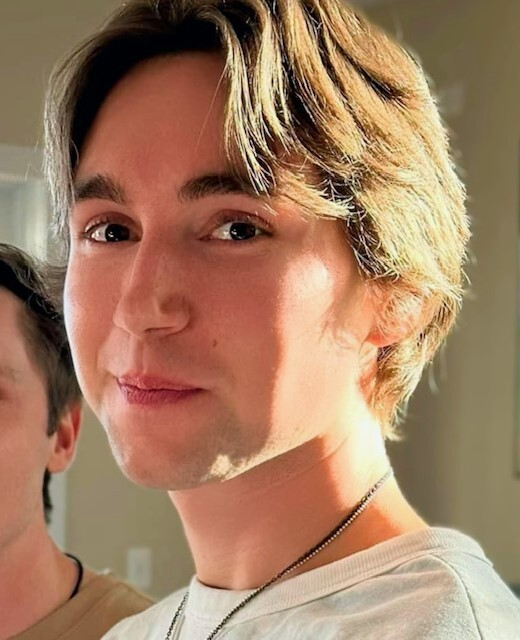
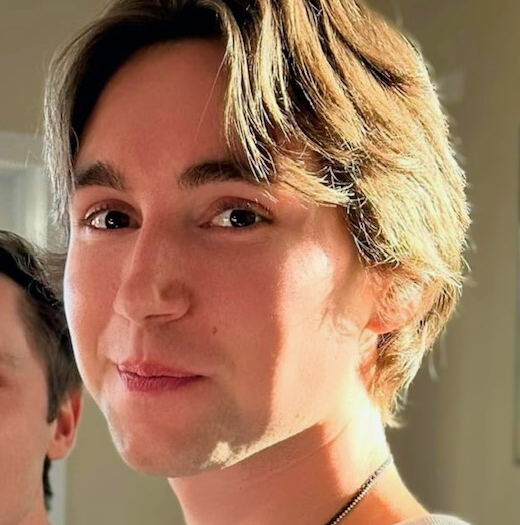
updated contact photos and home page styling

diff --git a/stylesheets/styles.scss b/stylesheets/styles.scss
@@ -45,7 +45,7 @@
 
 //main features styling
 .main-features {
-  background-color: aquamarine;
+  background-color: #e9cc7e;
   display: flex;
   justify-content: space-evenly;
   text-align: center;
@@ -86,7 +86,7 @@
   top: 0;
   left: 0;
   border-radius: 5px;
-  height: 100px;
+  height: 75px;
   z-index: 2;
 
   .NavBar {
@@ -94,55 +94,88 @@
     align-items: center;
     justify-content: space-between;
     position: fixed;
-    font-size: 20px;
+    font-size: 25px;
     font-family: Verdana, Geneva, Tahoma, sans-serif;
-    background-color: $bkrd-primary-color;
-    width: 100%;
-    height: 100px;
+    background-color: $secondary-color;
+    width: 99%;
+    height: 75px;
     top: 0px;
     left: 0;
-    padding: 0 30px;
-  }
+    padding: 0 15px;
 
-  a {
-    font-family: Verdana, Geneva, Tahoma, sans-serif;
-    font-size: 20px;
-    padding: 5px 10px;
-    margin: 0 5px;
-  }
-
-  .nav-links {
-    display: flex;
-    align-items: center;
-    transition: all 0.3s ease 0s;
-  }
-
-  .schema-btn {
-    padding: 4px;
-    background-color: bisque;
-    border: 1px solid bisque;
-    border-radius: 5px;
-    box-shadow: rgba(50, 50, 93, 0.25) 0px 6px 12px -2px, rgba(0, 0, 0, 0.3) 0px 3px 7px -3px;
-  }
-
-  .socials {
-    display: flex;
-    margin-left: 10px;
 
     a {
-      padding: 5 px 0 5px;
+      font-family: Verdana, Geneva, Tahoma, sans-serif;
+      font-size: 20px;
+      color: $primary-color;
+      padding: 5px 10px;
+      margin: 0 10px;
+      &:hover {
+      color: $primary-color-lt;
+      }
     }
 
-    .Nav-Github {
+    .nav-links {
       display: flex;
-      height: 2.6rem;
-      width: 2.6rem;
+      align-items: center;
+      transition: all 0.3s ease 0s;
+      &:hover {
+      color: $primary-color-lt;
+      }
     }
 
-    .Nav-Npm {
+    .nonsocials {
       display: flex;
-      height: 2.4rem;
-      width: 2.4rem;
+      margin-left: 10px;
+    }
+
+    .schema-btn {
+      padding: 3px;
+      background-color: $secondary-color-xlt;
+      border: 1px solid $secondary-color-lt;
+      border-radius: 5px;
+      box-shadow: rgba(50, 50, 93, 0.25) 0px 6px 12px -2px, rgba(0, 0, 0, 0.3) 0px  3px 7px -3px;
+    }
+
+    .socials {
+      display: flex;
+      margin-left: 10px;
+
+      a {
+       padding: 5px 0 5px;
+      }
+
+      .Nav-Github {
+       display: flex;
+        height: 2.6rem;
+        width: 2.6rem;
+        &:hover {
+          height: 3rem;
+          width: 3rem;
+          transition: 0.3s;
+        }
+        &:active {
+          height: 2rem;
+          width: 2rem;
+          transition: 0.3s;
+        }
+      }
+
+      .Nav-Npm {
+        display: flex;
+        height: 2.4rem;
+        width: 2.4rem;
+        &:hover {
+          height: 3rem;
+          width: 3rem;
+          transition: 0.3s;
+        }
+        &:active {
+          height: 2rem;
+          width: 2rem;
+          transition: 0.3s;
+        }
+      }
     }
   }
 
@@ -158,13 +191,13 @@
 
 //contact info styling
 .ContactInfo-container {
-  background-color: aquamarine;
+  background-color: $secondary-color;
   text-align: center;
   padding: 4em;
   h2 {
     font-family: Verdana, Geneva, Tahoma, sans-serif;
     font-size: 2.75rem;
-    color: grey;
+    color: $tertiary-color-lt;
   }
   .contact-info {
     display: flex;
@@ -195,37 +228,51 @@
       justify-content: center;
     }
   }
-}
-
-.headshot {
-  height: 7rem;
-  width: 7rem;
-  border-radius: 8px;
-}
-
-.contact-name {
-  font-size: 1.1rem;
-  font-weight: 800;
-  font-family:Verdana, Geneva, Tahoma, sans-serif;
-}
-
-.contact-title {
-  font-size: 0.95rem;
-  font-family: Verdana, Geneva, Tahoma, sans-serif;
-  word-wrap: false;
-}
-
-.contact-link-container {
-  height: 2.5rem;
-  width: 2.5rem;
-  display: flex;
-  justify-content: center;
-  align-items: center;
-  gap: 0.25rem;
-}
-
-.contact-link {
-  color: blueviolet;
-  height: 2rem;
-  width: 2rem;
+  @keyframes shake {
+    0% { transform: rotate(0); }
+    20% { transform: rotate(3deg); }
+    40% { transform: rotate(-3deg); }
+    60% { transform: rotate(2deg); }
+    80% { transform: rotate(-2deg); }
+    100% { transform: rotate(0); }
+  }
+  .headshot {
+    height: 8rem;
+    width: 8rem;
+    border-radius: 99px;
+  }
+  .contact-name {
+    font-size: 1.1rem;
+    font-weight: 800;
+    font-family: Verdana, Geneva, Tahoma, sans-serif;
+  }
+  .contact-title {
+   font-size: 0.95rem;
+    font-family: Verdana, Geneva, Tahoma, sans-serif;
+    word-wrap: false;
+  }
+  .contact-link-container {
+    height: 2.5rem;
+    width: 2.5rem;
+    display: flex;
+    justify-content: center;
+    align-items: center;
+    gap: 0.25rem;
+  }
+  .contact-link {
+    color: $primary-color;
+    height: 2rem;
+    width: 2rem;
+    &:hover {
+      color: $primary-color-lt;
+      height: 4rem;
+      width: 4rem;
+      transition: 0.3s;
+    }
+    &:active {
+      height: 2rem;
+      width: 2rem;
+      transition: 0.3s;
+    }
+  }
 }

diff --git a/src/components/NavBar.jsx b/src/components/NavBar.jsx
@@ -13,21 +13,19 @@ const NavBar = () => {
 					{/* add logo here */}
 					<h3>anpan</h3>
 				</div>
+
 				<ul className="nav-links">
-					<li>
+					<li className="nonsocials">
 						<Link to="/" className="home">
 							Home
 						</Link>
 					</li>
-					<li>
+					<li className="nonsocials">
 						<button className="schema-btn">
 							<Link to="/CodeGenerator" className="generate_schema">
 								Generate Schema
 							</Link>
 						</button>
-						{/* schema button here: 
-            <button onClick={() => navigate("/CodeGenerator")}> Generate Schema
-			      </button>*/}
 					</li>
 					<li className="socials">
 						<a href="https://github.com/oslabs-beta/anpan">
@@ -40,6 +38,7 @@ const NavBar = () => {
 						</a>
 					</li>
 				</ul>
+
 			</nav>
 		</nav>
 	);

diff --git a/stylesheets/_variables.scss b/stylesheets/_variables.scss
@@ -1,1 +1,18 @@
-$bkrd-primary-color: #F1A7D5;
+$bkrd-primary-color: #ffffe2;
+
+$primary-black: #181818;
+$primary-grey: #636466;
+
+$primary-color-xdrk: #7A0C00;
+$primary-color-drk: #A41E11;
+$primary-color: #D82C20;
+$primary-color-lt: #F1A7D5;
+
+$secondary-color: #e9cc7e;
+$secondary-color-lt: #ffecd2;
+$secondary-color-xlt: #ffffe2;
+
+$tertiary-color-xdrk: #38325e;
+$tertiary-color-drk: #5f374d;
+$tertiary-color: #80424c;
+$tertiary-color-lt: #96433d;
